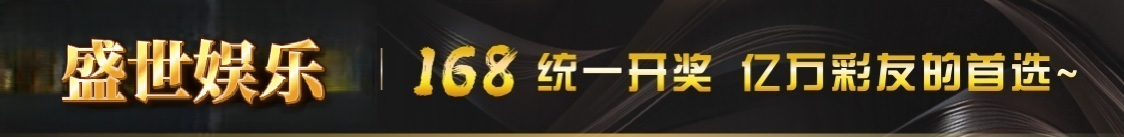
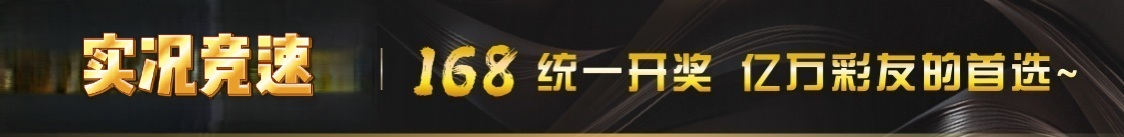
Add files via upload

Changed region(s): [[0.0311, 0.2336, 0.3114, 0.7883]]

diff --git a/index.html b/index.html
@@ -8,7 +8,7 @@
     <link rel="stylesheet" href="./skin/style_icon.css">
     <link rel="stylesheet" href="./skin/index.css">
     <script src="./skin/nutui.umd.4.3.8.js"></script>
-    <title>盛世娱乐</title>
+    <title>实况竞速</title>
     <meta name="keywords" content="">
     <meta name="description" content="">
     <link rel="icon" href="./skin/lgo.png" type="image/png">
@@ -86,7 +86,7 @@
                     <div class="msg-bar">
                         <div class="marquee-container">
                             <div class="marquee" style="font-size: 17px;color: #D7C09D;">
-                                盛世娱乐：十年老平台，信誉保障、福利优厚、优质服务，盛世娱乐长期招收实力代理、合作伙伴，共同携手创造辉煌！
+                                实况竞速：十年老平台，信誉保障、福利优厚、优质服务，实况竞速长期招收实力代理、合作伙伴，共同携手创造辉煌！
                             </div>
                         </div>
                     </div>
@@ -119,10 +119,10 @@
                                 <div class="top-info">
                                     <div class="info">
                                         <div class="name">
-                                            Bv-万濠城
+                                            Bv-新盛
                                         </div>
                                         <div class="name">
-                                            房间:101217
+                                            房间:322811
                                         </div>
                                         <div class="link">
                                             <a href="javascript:;">
